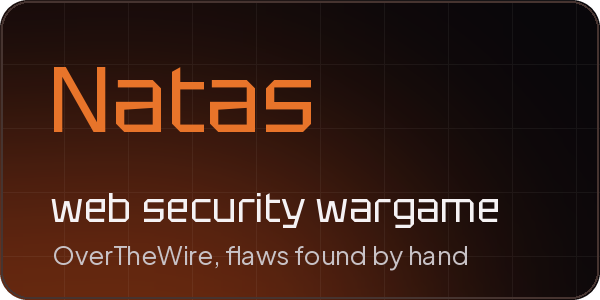
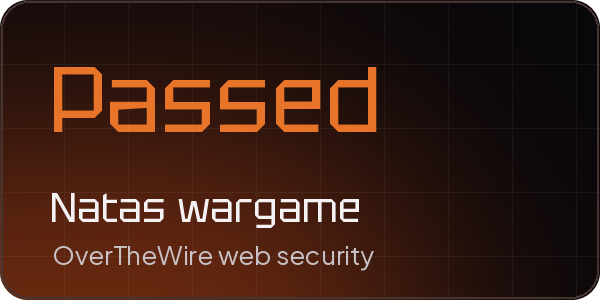
Achievements: Natas passed, card and list

diff --git a/README.md b/README.md
@@ -69,7 +69,7 @@ what is wrong and how to fix it, without running anything.
   <a href="https://academy.hackthebox.com/"><img src="assets/card-academy.png" width="49%" alt="20+ HTB Academy modules"></a>
   <a href="https://www.hackthebox.com/"><img src="assets/card-startingpoint.png" width="49%" alt="14+ Starting Point machines on HackTheBox"></a>
   <a href="https://overthewire.org/wargames/bandit/"><img src="assets/card-bandit.png" width="49%" alt="35 Bandit levels on OverTheWire"></a>
-  <a href="https://overthewire.org/wargames/natas/"><img src="assets/card-natas.png" width="49%" alt="Natas, the OverTheWire web security wargame"></a>
+  <a href="https://overthewire.org/wargames/natas/"><img src="assets/card-natas.png" width="49%" alt="Passed the Natas wargame on OverTheWire"></a>
 </p>
 
 - [x] **[HTB Academy](https://academy.hackthebox.com/)**
@@ -83,6 +83,10 @@ what is wrong and how to fix it, without running anything.
 - [x] **[OverTheWire Bandit](https://overthewire.org/wargames/bandit/)**
   Solved 35 progressively challenging Linux security assignments showing
   `Command Line Proficiency` | `System Vulnerability Identification` | `Security Bypass Techniques`
+
+- [x] **[OverTheWire Natas](https://overthewire.org/wargames/natas/)**
+  Passed the web security wargame, working through
+  `Source Analysis` | `Injection` | `Session and Cookie Tampering`
 
 - [x] **Security tools development**
   Built [bshred.py](https://github.com/lounesart/Scripts/blob/main/Python/bshred.py), a precision alternative to GNU [shred](https://www.gnu.org/software/coreutils/manual/html_node/shred-invocation.html) that
